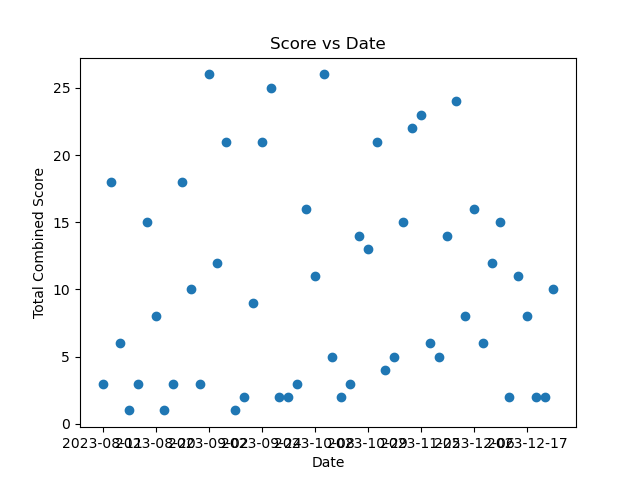
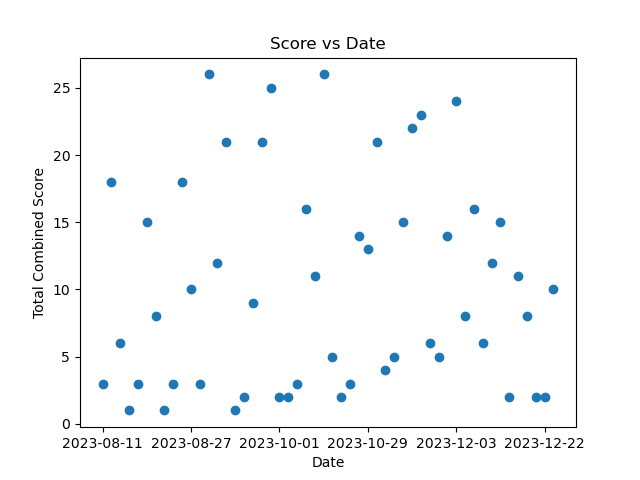
final commit

Changed region(s): [[0.1875, 0.9062, 0.5625, 0.9375], [0.5938, 0.9062, 0.9062, 0.9375]]

diff --git a/visualisations.py b/visualisations.py
@@ -39,7 +39,7 @@ fig, ax = plt.subplots()
 ax.scatter(days, daily_scores)
 ax.set_xlabel("Date")
 #makes it so you only view every 6th tickmark for readability
-ax.set_xticks(days[::6])
+ax.set_xticks(days[::10])
 ax.set_ylabel("Total Combined Score")
 ax.set_title('Score vs Date')
 plt.savefig('score_vs_date.png') 
